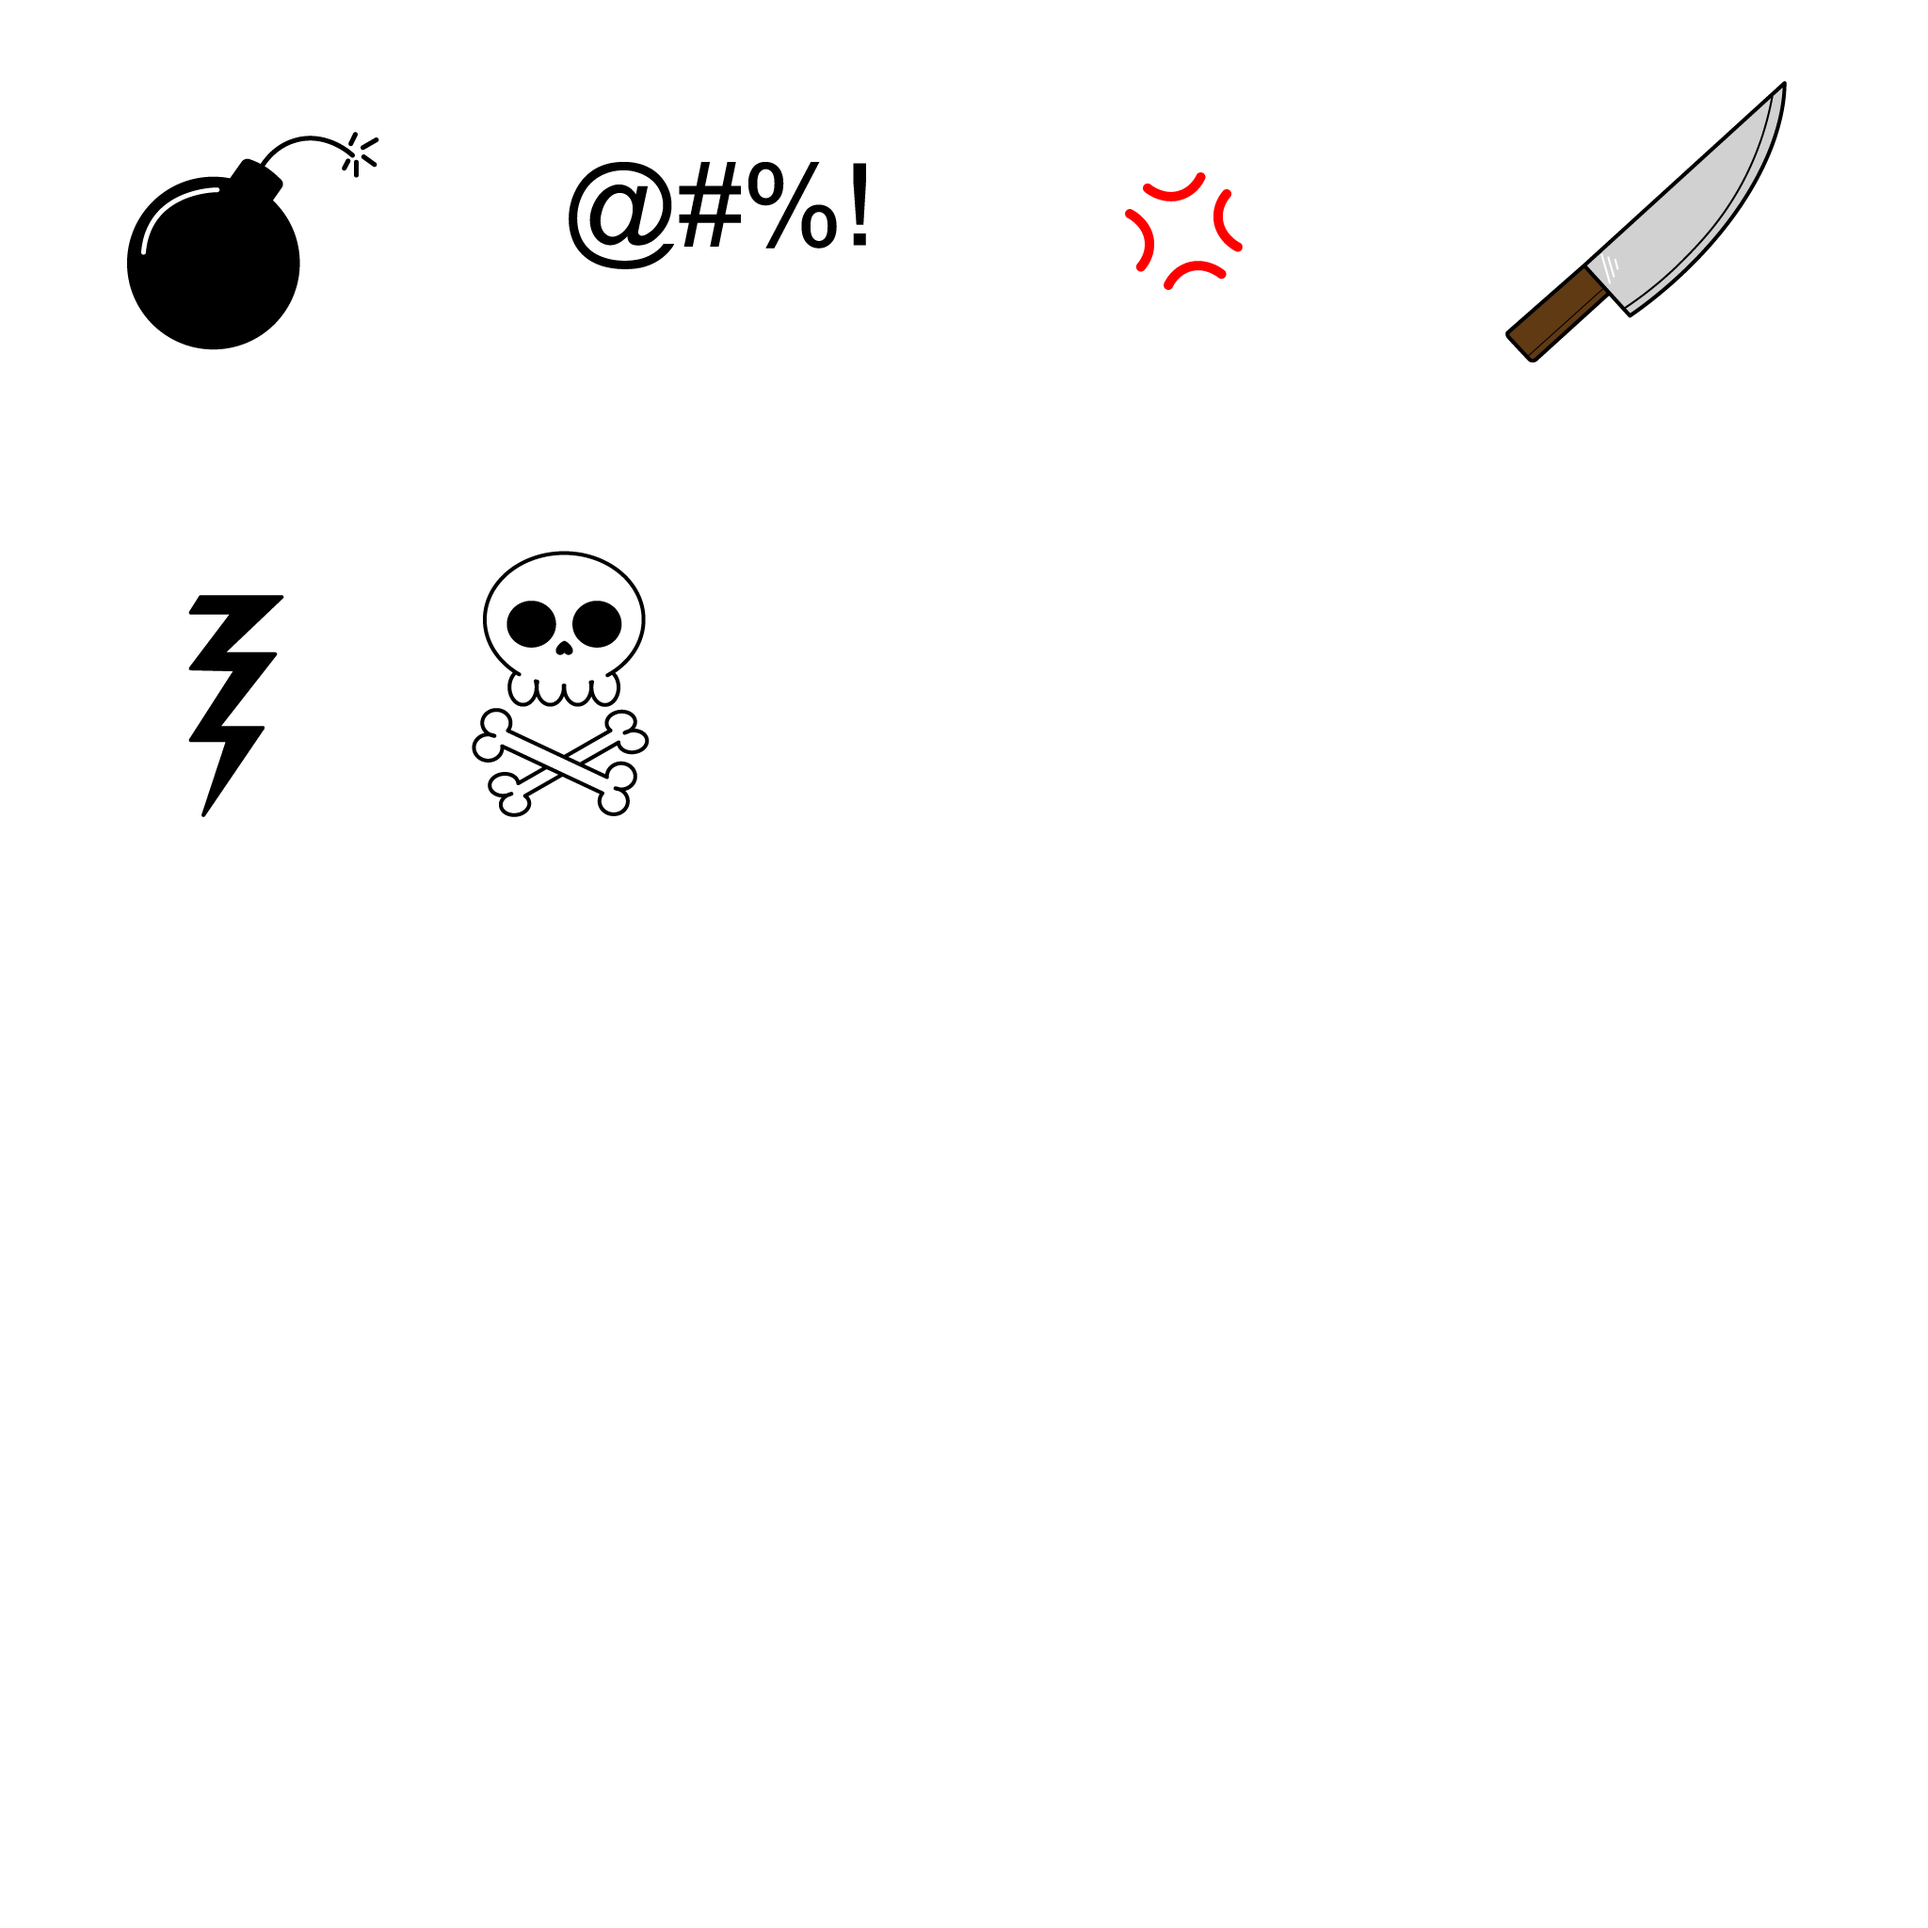
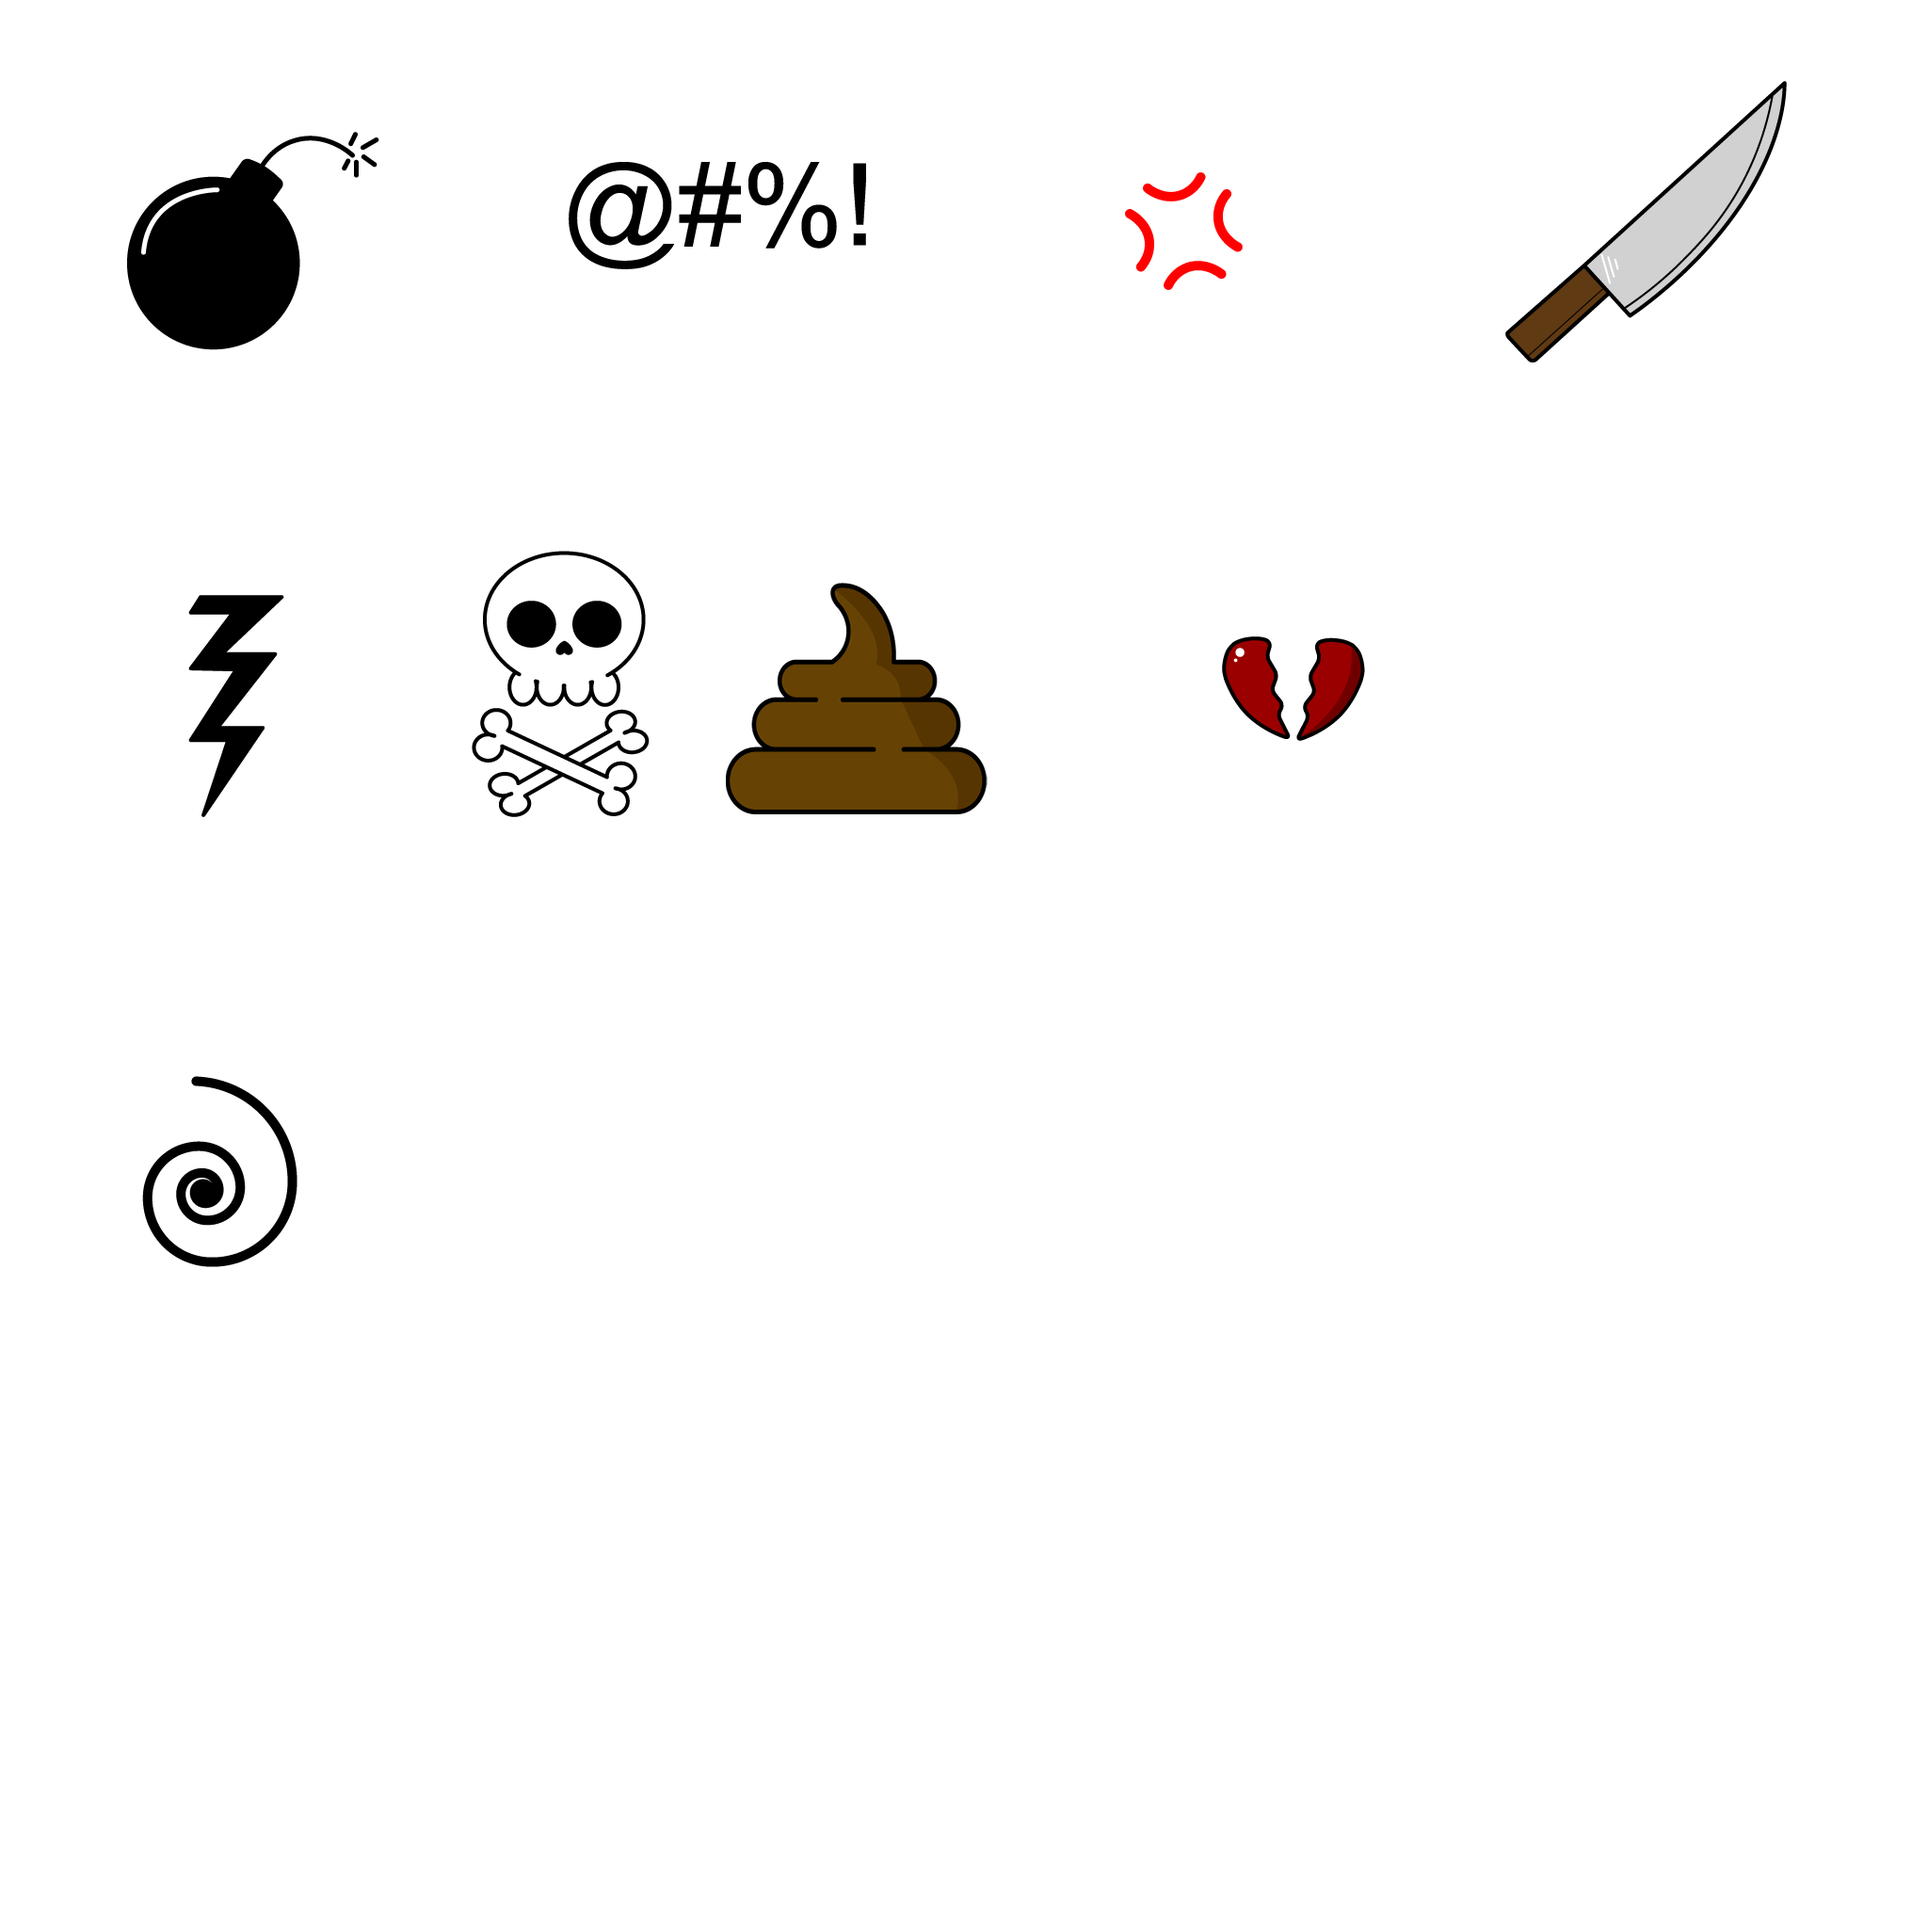
ajout des nouvelles insulte et fix le rate

Changed region(s): [[0.375, 0.2812, 0.5312, 0.4375], [0.0625, 0.5625, 0.1562, 0.6562], [0.625, 0.3125, 0.7188, 0.4062]]

diff --git a/LudumDare51/Assets/AngryBar/AngryBar.cs b/LudumDare51/Assets/AngryBar/AngryBar.cs
@@ -18,8 +18,11 @@ public class AngryBar : MonoBehaviour, IAngryBar
     private ParticleSystem particleSystem;
     private Animator animator;
 
+    [SerializeField]
     private Color firstColor = Color.green;
+    [SerializeField]
     private Color midColor = Color.yellow;
+    [SerializeField]
     private Color lastColor = Color.red;
 
     void Awake()
@@ -66,16 +69,20 @@ public class AngryBar : MonoBehaviour, IAngryBar
 
     private void ManageColor()
     {
+        var emission = particleSystem.emission;
         if (slider.value < 0.3f)
         {
+            emission.rateOverTime = 3;
             ChangeSliderColor(firstColor);
         }
         else if (slider.value < 0.6f)
         {
+            emission.rateOverTime = 6;
             ChangeSliderColor(midColor);
         }
         else
         {
+            emission.rateOverTime = 10;
             ChangeSliderColor(lastColor);
         }
     }
